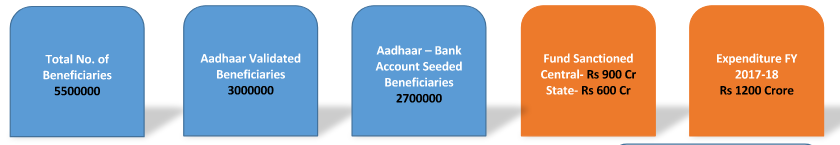
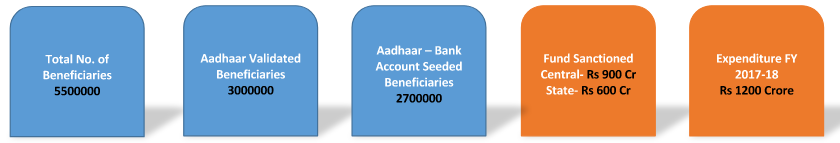
image solved
dashboard image has been croped.

diff --git a/dashboard.html b/dashboard.html
@@ -130,7 +130,7 @@
                 <br>
                     <div class="row">
                         <div class="col-sm-12">
-                            <img src="img/dash1.png" class="img-responsive" style="width:100%;">
+                            <img src="img/dash1.png" class="img-responsive" style="width:100%; margin-bottom:25px;">
                         </div>
                     </div>
 
